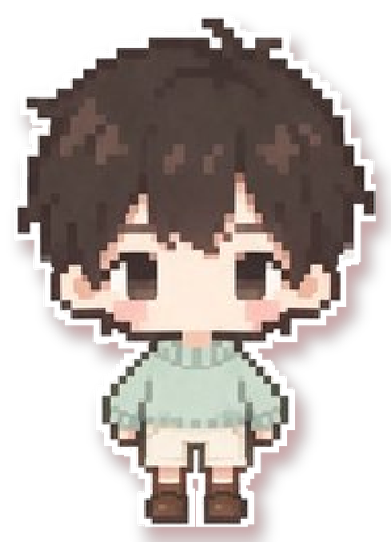
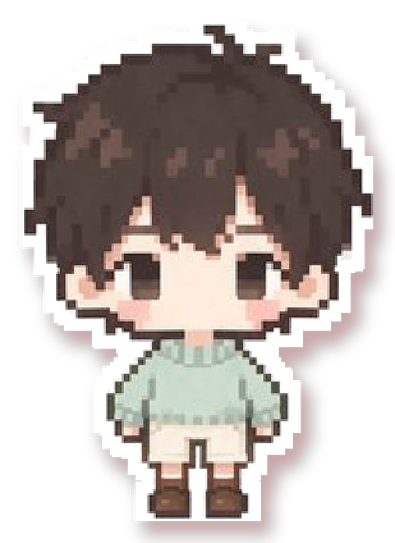
主界面

diff --git a/assets/fonts/title.css b/assets/fonts/title.css
@@ -1,7 +1,7 @@
 /* 自托管字体（子集化）。
    两支小的（标题 6.7KB / 副标题 6.9KB）直接内联成 data URI：不产生额外请求；
    两支大的（正文字体）作为独立文件，由 index.html 预加载 + font-display: block 消除闪烁。 */
-@font-face{font-family:'UITangMei';font-style:normal;font-weight:400;font-display:block;src:url('ui-tangmei.woff2') format('woff2');}
-@font-face{font-family:'DisplayHY';font-style:normal;font-weight:400;font-display:block;src:url('display-hy.woff2') format('woff2');}
[2 lines of base64/hex data omitted]
+@font-face{font-family:'UITangMei';font-style:normal;font-weight:400;font-display:fallback;src:url('ui-tangmei.woff2') format('woff2');}
+@font-face{font-family:'DisplayHY';font-style:normal;font-weight:400;font-display:fallback;src:url('display-hy.woff2') format('woff2');}
[2 lines of base64/hex data omitted]

diff --git a/css/style.css b/css/style.css
@@ -4062,48 +4062,52 @@ body { font-synthesis: none; }
    ========================================================================= */
 .vn-title__mascots {
   position: absolute;
-  left: 36.5%;
-  bottom: 150px;             /* 与「我的大学四年」同一水平线 */
-  display: flex;
-  align-items: flex-end;
-  gap: 14px;                 /* 两个小人分开一点 */
+  inset: 0;
   pointer-events: none;
   user-select: none;
 }
 .vn-mascot {
+  position: absolute;
   display: block;
   width: auto;
-  height: 100px;
   image-rendering: -webkit-optimize-contrast;
+  transition: transform 420ms cubic-bezier(0.34, 1.56, 0.64, 1);
+  transform-origin: 50% 90%;
 }
+/* 女生：站在「大学四年」右侧（整只落在第一行的高度带里） */
 .vn-mascot--girl {
+  left: 37.3%;
+  bottom: 176px;
+  height: 148px;
   transform: rotate(-15deg);
-  transition: transform 420ms cubic-bezier(0.34, 1.56, 0.64, 1);
-  transform-origin: 50% 90%;
 }
+/* 男生：站在「没问题！」右侧（落在第二行的高度带里） */
 .vn-mascot--boy {
-  height: 88px;
-  transform: rotate(13deg) translateY(6px);
-  transition: transform 420ms cubic-bezier(0.34, 1.56, 0.64, 1);
-  transform-origin: 50% 90%;
+  left: 46.3%;
+  bottom: 100px;
+  height: 104px;
+  transform: rotate(13deg);
 }
 /* 悬停：摆正 + 放大 + 上浮，回弹曲线让动作更明显 */
 .vn-title:hover .vn-mascot--girl {
   transform: rotate(-3deg) translateY(-8px) scale(1.06);
 }
 .vn-title:hover .vn-mascot--boy {
-  transform: rotate(2deg) translateY(-2px) scale(1.06);
+  transform: rotate(2deg) translateY(-5px) scale(1.06);
 }
 
 @media (max-width: 980px) {
   .vn-title__mascots {
     position: static;
     order: 5;
+    display: flex;
     justify-content: center;
-    margin-top: 6px;
+    align-items: flex-end;
+    gap: 14px;
+    margin-top: 10px;
   }
-  .vn-mascot { height: 96px; }
-  .vn-mascot--boy { height: 84px; }
+  .vn-mascot { position: static; height: 104px; }
+  .vn-mascot--boy { height: 90px; }
 }
 
 
@@ -4170,4 +4174,35 @@ body { font-synthesis: none; }
   font-family: var(--font-display);
   font-weight: 400;
   letter-spacing: 0.05em;
+}
+
+
+/* 副标题：红色 + 略加粗，和标题呼应 */
+.vn-logo__sub {
+  color: var(--red);
+}
+
+
+/* =========================================================================
+   34. 选项卡：去掉可见描边与投影，变成「干净的白色纸片」
+   （之前 1px 的 --hair 边框 + 投影会在卡片边缘留下明显的交界线）
+   ========================================================================= */
+.vn-choice {
+  border-color: transparent;
+  box-shadow: none;
+}
+.vn-choice:hover {
+  box-shadow: 0 10px 24px var(--red-glow);   /* 悬停才有浮起的投影 */
+}
+.vn-choice.is-locked,
+.vn-choice--gold {
+  border-color: transparent;
+}
+
+
+/* 第一行里「大学四年」比「我的」大一号 */
+.vn-logo__line-big {
+  font-size: 1.14em;
+  line-height: 0.92;
+  letter-spacing: 0.01em;
 }

diff --git a/src/ui/ui.js b/src/ui/ui.js
@@ -808,7 +808,10 @@ export function createApp(ctx) {
           ]),
         ]),
         h('h1', { class: 'vn-logo' }, [
-          h('span', { class: 'vn-logo__line' }, ['我的大学四年']),
+          h('span', { class: 'vn-logo__line' }, [
+            '我的',
+            h('span', { class: 'vn-logo__line-big' }, ['大学四年']),
+          ]),
           h('span', { class: 'vn-logo__line vn-logo__line--accent' }, [
             '果然',
             h('span', { class: 'vn-logo__hl' }, ['有']),
@@ -817,7 +820,7 @@ export function createApp(ctx) {
             '！',
           ]),
         ]),
-        h('p', { class: 'vn-logo__sub' }, ['在这里度过你的大学时光']),
+        h('p', { class: 'vn-logo__sub' }, ['在这里度过你的大学时光~']),
         h('div', { class: 'vn-title__mascots', 'aria-hidden': 'true' }, [
           h('img', { class: 'vn-mascot vn-mascot--girl', src: 'assets/mascot/girl.png', alt: '' }),
           h('img', { class: 'vn-mascot vn-mascot--boy', src: 'assets/mascot/boy.png', alt: '' }),

diff --git a/docs/DESIGN.md b/docs/DESIGN.md
@@ -57,7 +57,9 @@
   - **标题字体** **汉仪唐美人 W**（`--font-display`，手写行书）：弹窗标题、表单标题、抽屉标题、
     创建角色大标题、结局名、事件标签，以及徽记 SCUSim（角色信息姓名、创建页表单小标题用正文字体）
 
-  - 标题里的「有 / 没问题」套 `.vn-logo__hl`（「我的大学四年」不带描边）：`-webkit-text-stroke: .055em #fff` + `paint-order: stroke fill`
+  - 第一行「我的大学四年」里，**「大学四年」比「我的」大 1.14 倍**（`.vn-logo__line-big`），
+  字号差制造节奏，但共用同一基线
+- 标题里的「有 / 没问题」套 `.vn-logo__hl`（「我的大学四年」不带描边）：`-webkit-text-stroke: .055em #fff` + `paint-order: stroke fill`
     + 8 向白色 `text-shadow` 兜底，做出贴纸式白描边
   - **四支字体都只有一个字重（400）**：全站 `font-synthesis: none`，并把这些常用组件显式设为 400，
     否则浏览器会用「合成粗体」把细笔画抹成一团（看起来就像没换字体）
@@ -188,6 +190,12 @@
 
 `.vn-modal__body` / `.vn-tag-grid` 是 `overflow: auto`，卡片投影会在容器边缘被裁成直线。
 做法：给网格加 `padding: 14px; margin: -12px;`（视觉位置不变，阴影多了 14px 呼吸空间），滚动容器再加 `scroll-padding: 12px`。
+
+### 选项卡是扁平白卡
+
+`.vn-choice` 平时**没有描边、没有投影**（`border-color: transparent; box-shadow: none`），
+只剩白色圆角纸片；投影只在悬停时出现（`0 10px 24px var(--red-glow)`）。
+原因：1px 的 `--hair` 边框叠在照片上会形成一圈明显的“界线”，和背景交界很生硬。
 
 ### 填充动效的坑（五处）
 

diff --git a/assets/fonts/README.md b/assets/fonts/README.md
@@ -32,7 +32,7 @@ python -m fontTools.subset 原字体.ttf --text-file=charset.txt --flavor=woff2 
 |---|---|
 | 两支标题字体**内联**成 `data:` URI | 不产生网络请求，标题永不闪 |
 | 两支正文字体 `<link rel="preload">` | 与 CSS 并行下载，先于首次绘制 |
-| `font-display: block` | 字体未就绪时不显示回退字形，避免“先黑体再变花月圆”的跳变 |
+| `font-display: fallback` | 100ms 极短阻塞期，之后先用回退字形显示（避免文字长时间空白），字体到位再替换 |
 | 服务端 `Cache-Control: max-age=86400` | 刷新不重下（dev 服务器原本是 `no-store`，所以每次都重新下载） |
 | 子集化 | 只含界面实际用字，合计 ~620 KB |
 

diff --git a/assets/README.md b/assets/README.md
@@ -62,7 +62,7 @@ assets/
 | `plaza-street.jpg` | 江安 · 商业街（蓝花+长椅机位，1440×810） | 社团活动、每周开场 |
 | `canteen-west.jpg` | 江安 · 西园食堂（1440×810） | 社交娱乐 |
 | `create-welcome.jpg` | 江安 · 迎新展板（1440×810） | **创建角色背景** |
-| `girl.png` | 像素小人 · 女生（透明 + 白描边 + 红投影） | 标题页装饰 |
+| `girl.png` | 像素小人 · 女生（透明 + 15px 白描边 + 红投影） | 标题页装饰 |
 | `boy.png` | 像素小人 · 男生（同上） | 标题页装饰 |
 | `gate.jpg` | 江安 · 东门 | 备用封面 |
 | `gate-scu.jpg` | 望江 · 北门（1920×1080） | **标题页（封面）** |
